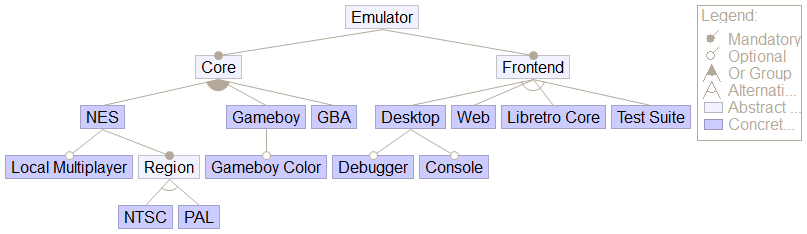
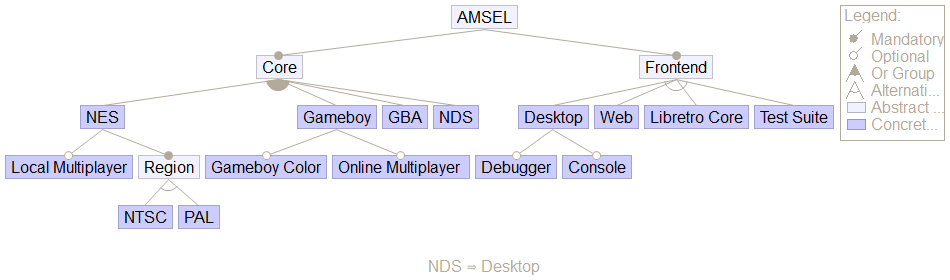
add feature option for online multiplayer, update feature model

diff --git a/src/console/cgb_implementation.cpp b/src/console/cgb_implementation.cpp
@@ -204,13 +204,6 @@ void CgbImplementation::initializeControls()
   Console::loadMappings();
 }
 
-void CgbImplementation::clockLinkCable(){
-  // if(connection.has_value()){
-  //   connection.value()->writeByte(116);
-  //   connection.value()->readByte();
-  // }
-}
-
 bool CgbImplementation::canSave()
 {
     return cgb_can_save(cgb);
@@ -382,7 +375,11 @@ void CgbImplementation::transferSent(){
   completed_send(cgb);
 }
 
+#ifdef FEATURE_ONLINE_MULTIPLAYER
 std::vector<SystemOption> CgbImplementation::options = {CustomMenu{LinkCable}};
+#else
+std::vector<SystemOption> CgbImplementation::options = {};
+#endif
 
 ControlOptions CgbImplementation::controls = {
     .numControllers = 1,

diff --git a/src/main.cpp b/src/main.cpp
@@ -77,11 +77,13 @@ int run(int argc, wchar_t** argv)
   // Audiosystem taktet die Konsole in separatem Thread
   std::thread t(&AudioSystem::start, &audiosystem);
 
+  #ifdef FEATURE_ONLINE_MULTIPLAYER
   std::thread nt([&](){
     while(!stopNetworkThread){
       io_context.run();
     }
   });
+  #endif
 
   glfwSwapInterval(0);
   while(!glfwWindowShouldClose(window)){
@@ -130,7 +132,9 @@ int run(int argc, wchar_t** argv)
   stopNetworkThread = true;
   #ifndef PROFILE_MODE
   t.join();
+  #ifdef FEATURE_ONLINE_MULTIPLAYER
   nt.join();
+  #endif
   #endif
   cleanUp(window);
   return 0;

diff --git a/src/console/cgb_implementation.h b/src/console/cgb_implementation.h
@@ -26,8 +26,6 @@ class CgbImplementation : public Console, std::enable_shared_from_this<CgbImplem
     // #ifdef BUILD_LIBRETRO_CORE
     std::mutex m;
     // #endif
-
-    void clockLinkCable();
     public:
     std::string getConsoleName() override;
     CgbImplementation() = delete;
